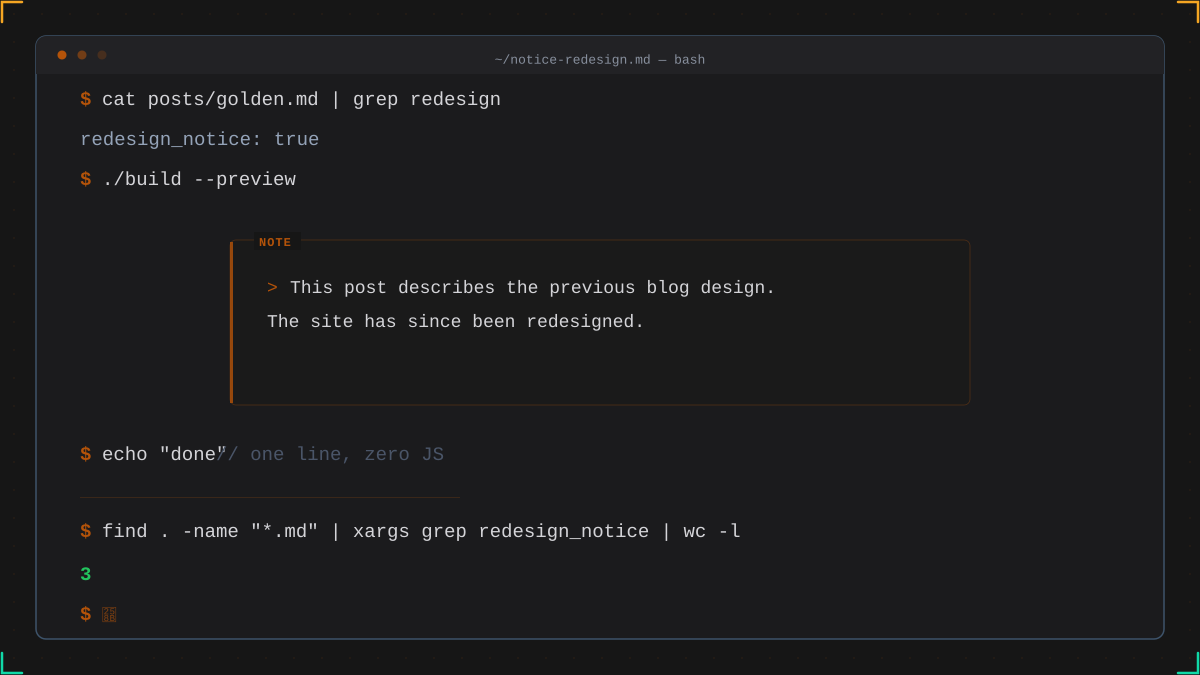
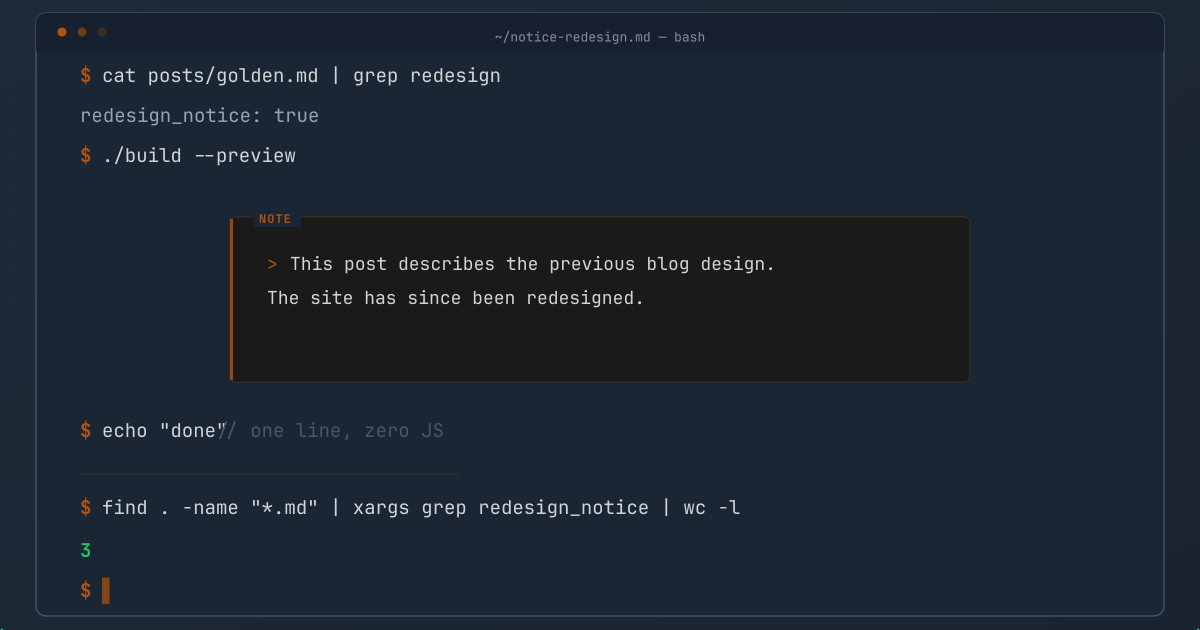
publish responsive-tables-semantic-overflow; re-convert stale OG PNGs to navy scheme
- Add heading-anchor-fix, building-conditional-notice, responsive-tables
  entries to scripts/og-convert.mjs
- Re-convert 6 stale OG PNGs (all-in-monospace, gray-hue-is-not-neutral,
  pinned-content-framework, the-plugin-that-was-never-running,
  heading-anchor-fix, building-conditional-notice)
- responsive-tables-semantic-overflow.svg: add navy gradient background + dot pattern
- responsive-tables-semantic-overflow.md: draft=false, date=2026-07-03,
  trim alt text (183->118 chars) & caption (20->12 words)

diff --git a/content/posts/responsive-tables-semantic-overflow.md b/content/posts/responsive-tables-semantic-overflow.md
@@ -2,16 +2,16 @@
 title: "Taming Tables on Small Screens: A Semantic Approach to Horizontal Overflow"
 seoTitle: "Taming Tables on Small Screens: Semantic Overflow"
 description: "Tables overflow on mobile. The fix is simple, but most implementations break semantics for screen readers. Here's the clean, accessible approach I use."
-date: 2026-06-25
-draft: true
+date: 2026-07-03
+draft: false
 tags: [css, html, accessibility, howto]
 image: /assets/img/og/responsive-tables-semantic-overflow.png
 image_alt: "Split illustration: left side shows a table overflowing a phone screen with a red cutoff indicator, right side shows the same table contained within a scrollable wrapper"
 ---
 
-![A split illustration: left side shows a table overflowing a phone screen with a red "cut off" indicator, right side shows the same table contained within a scrollable wrapper](../assets/img/responsive-tables-semantic-overflow.svg)
+![Split illustration comparing an overflowing table on a phone (left) with the same table inside a scrollable wrapper (right)](../assets/img/responsive-tables-semantic-overflow.svg)
 
-*A responsive table should never clip its content. The fix: a wrapper div with horizontal scroll, not a hack on the table itself.*
+*The fix: a wrapper div with horizontal scroll, preserving table semantics*
 
 
 ## The Problem
